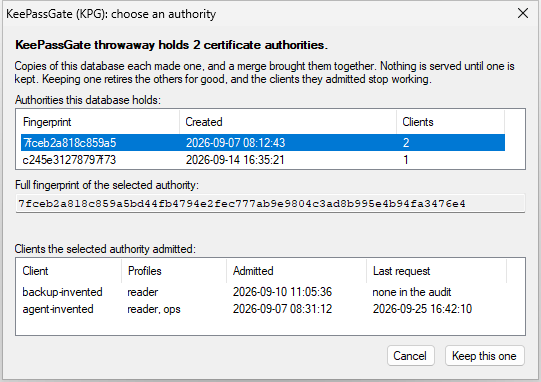
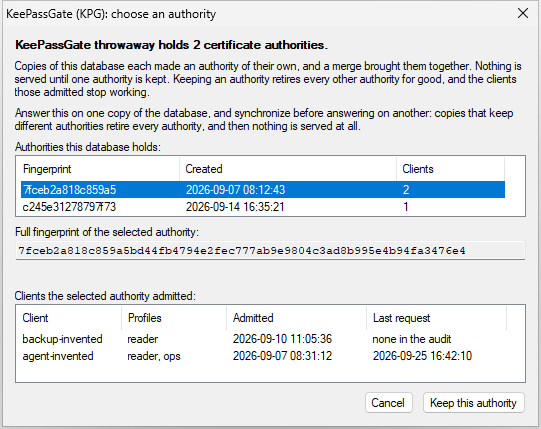
Warn before the chooser is answered on more than one copy
Nothing undoes copies keeping different authorities, so the warning
belongs before the answer. The chooser now asks for the answer on one
copy of the database, synchronized before another copy answers, and
names the authority throughout: its first paragraph, and its button,
now Keep this authority. CA.md and getting-started.md describe the
same, and the documentation screenshots are retaken. This completes
review 4's S036.

diff --git a/src/KeePassGate/Ui/AuthorityChooserForm.cs b/src/KeePassGate/Ui/AuthorityChooserForm.cs
@@ -28,12 +28,24 @@ namespace KeePassGate.Ui
     ///   that can be dismissed into one is a dialog that will be.
     /// - **Only an authority that reads can be kept.** One that will not is listed, because it is
     ///   still one the database holds, and keeping another retires it.
+    /// - **One copy answers.** The audit the evidence comes from is this machine's own, so copies
+    ///   asked before any answer is synchronized can each point at a different authority, and
+    ///   two different answers, among however many copies and authorities, retire every
+    ///   authority. The dialog warns of that before anything is chosen, since nothing can undo it
+    ///   afterwards.
     /// </remarks>
     public sealed class AuthorityChooserForm : Form
     {
         /// <summary>What choosing does, said once and in full.</summary>
         public const string Consequence =
-            "Keeping one retires the others for good, and the clients they admitted stop working.";
+            "Keeping an authority retires every other authority for good, and the clients those " +
+            "admitted stop working.";
+
+        /// <summary>What answering on more than one copy does, shown before any of them is answered.</summary>
+        public const string OneCopy =
+            "Answer this on one copy of the database, and synchronize before answering on another: " +
+            "copies that keep different authorities retire every authority, and then nothing is " +
+            "served at all.";
 
         /// <summary>What a client with nothing in the audit shows as its last request.</summary>
         public const string NeverSeen = "none in the audit";
@@ -133,10 +145,11 @@ namespace KeePassGate.Ui
 
             layout.Controls.Add(Line(Title(choice, databaseName), _titleFont, Spacing.Gap));
             layout.Controls.Add(Line(
-                "Copies of this database each made one, and a merge brought them together. " +
-                "Nothing is served until one is kept. " + Consequence,
+                "Copies of this database each made an authority of their own, and a merge brought " +
+                "them together. Nothing is served until one authority is kept. " + Consequence,
                 null,
                 Spacing.Gap));
+            layout.Controls.Add(Line(OneCopy, null, Spacing.Gap));
 
             layout.Controls.Add(Line(GateTab.ChooserAuthorityListLabel + ":", null, Spacing.Tight));
             _authorities = NewList(GateTab.ChooserAuthorityListName, GateTab.ChooserAuthorityListLabel);

diff --git a/tests/KeePassGate.Tests/AuthorityChooserTests.cs b/tests/KeePassGate.Tests/AuthorityChooserTests.cs
@@ -143,6 +143,8 @@ namespace KeePassGate.Tests
 
                 Assert.That(text, Does.Contain("Invented Vault holds 2 certificate authorities."));
                 Assert.That(text, Does.Contain(AuthorityChooserForm.Consequence));
+                Assert.That(text, Does.Contain(AuthorityChooserForm.OneCopy),
+                    "and, before anything is chosen, what different answers on two copies do");
             }
         }
 

diff --git a/src/KeePassGate/Ui/GateTab.cs b/src/KeePassGate/Ui/GateTab.cs
@@ -445,7 +445,7 @@ namespace KeePassGate.Ui
 
         public const string KeepButtonName = "KpgKeepButton";
 
-        public const string KeepButtonText = "Keep this one";
+        public const string KeepButtonText = "Keep this authority";
 
         public const string ChooserCancelButtonName = "KpgChooserCancelButton";
 

diff --git a/docs/getting-started.md b/docs/getting-started.md
@@ -238,7 +238,7 @@ it last made a request, if the audit file remembers one.
 
 ![The window asking which authority to keep](images/authority-chooser.png)
 
-**Keep this one** keeps the selected authority and retires every other authority for good: the
+**Keep this authority** keeps the selected authority and retires every other authority for good: the
 programs those admitted stop working and have to pair again, and their rows stay on the clients page
 as **not this authority** until they are removed. The database is marked changed and not saved, so
 save it to keep the choice.
@@ -252,6 +252,8 @@ anybody answered asks on its own, and the clients each copy lists are those that
 so copies can easily keep different authorities. Once those copies are synchronized, every authority
 is retired: nothing is served, the Certificate Authority page shows every authority this database
 has held as retired, and nothing undoes that. Create a new authority, and pair every program again.
+**So answer on one copy**, save it, and synchronize it into every other copy before answering there:
+a copy that already holds the answer does not ask.
 
 ## Locking while a program writes
 

diff --git a/CA.md b/CA.md
@@ -268,7 +268,8 @@ synchronized can each keep a different authority. Each answer retires every auth
 keep, and a retirement is never removed, so once the answers meet in a synchronize nothing is served
 and every client is refused, with no way back but a new authority and every client paired again. The
 KPG tab then shows every authority the database has held as retired, rather than showing no
-authority yet, as it does after a delete, which retires an authority too.
+authority yet, as it does after a delete, which retires an authority too. **So the chooser warns,
+before anything is chosen**, to answer on one copy and synchronize before answering on another.
 
 **Recreating and deleting both remove every admission record, and every revocation with the records
 it emptied.** Each certificate they name chains to the authority just retired, and the retirement

diff --git a/CHANGELOG.md b/CHANGELOG.md
@@ -12,6 +12,9 @@ none, since it releases both.
 
 ## 0.2.0, unreleased
 
+- **The chooser warns before it is answered**: answer on one copy of the database, and
+  synchronize before answering on another. Its button is **Keep this authority** rather than
+  **Keep this one**.
 - **The KPG tab shows a database whose every authority is retired as retired**, rather than as
   having no authority yet. Copies that each kept a different authority in the chooser, before
   their answers were synchronized, retire every authority, and the tab then sent the operator
